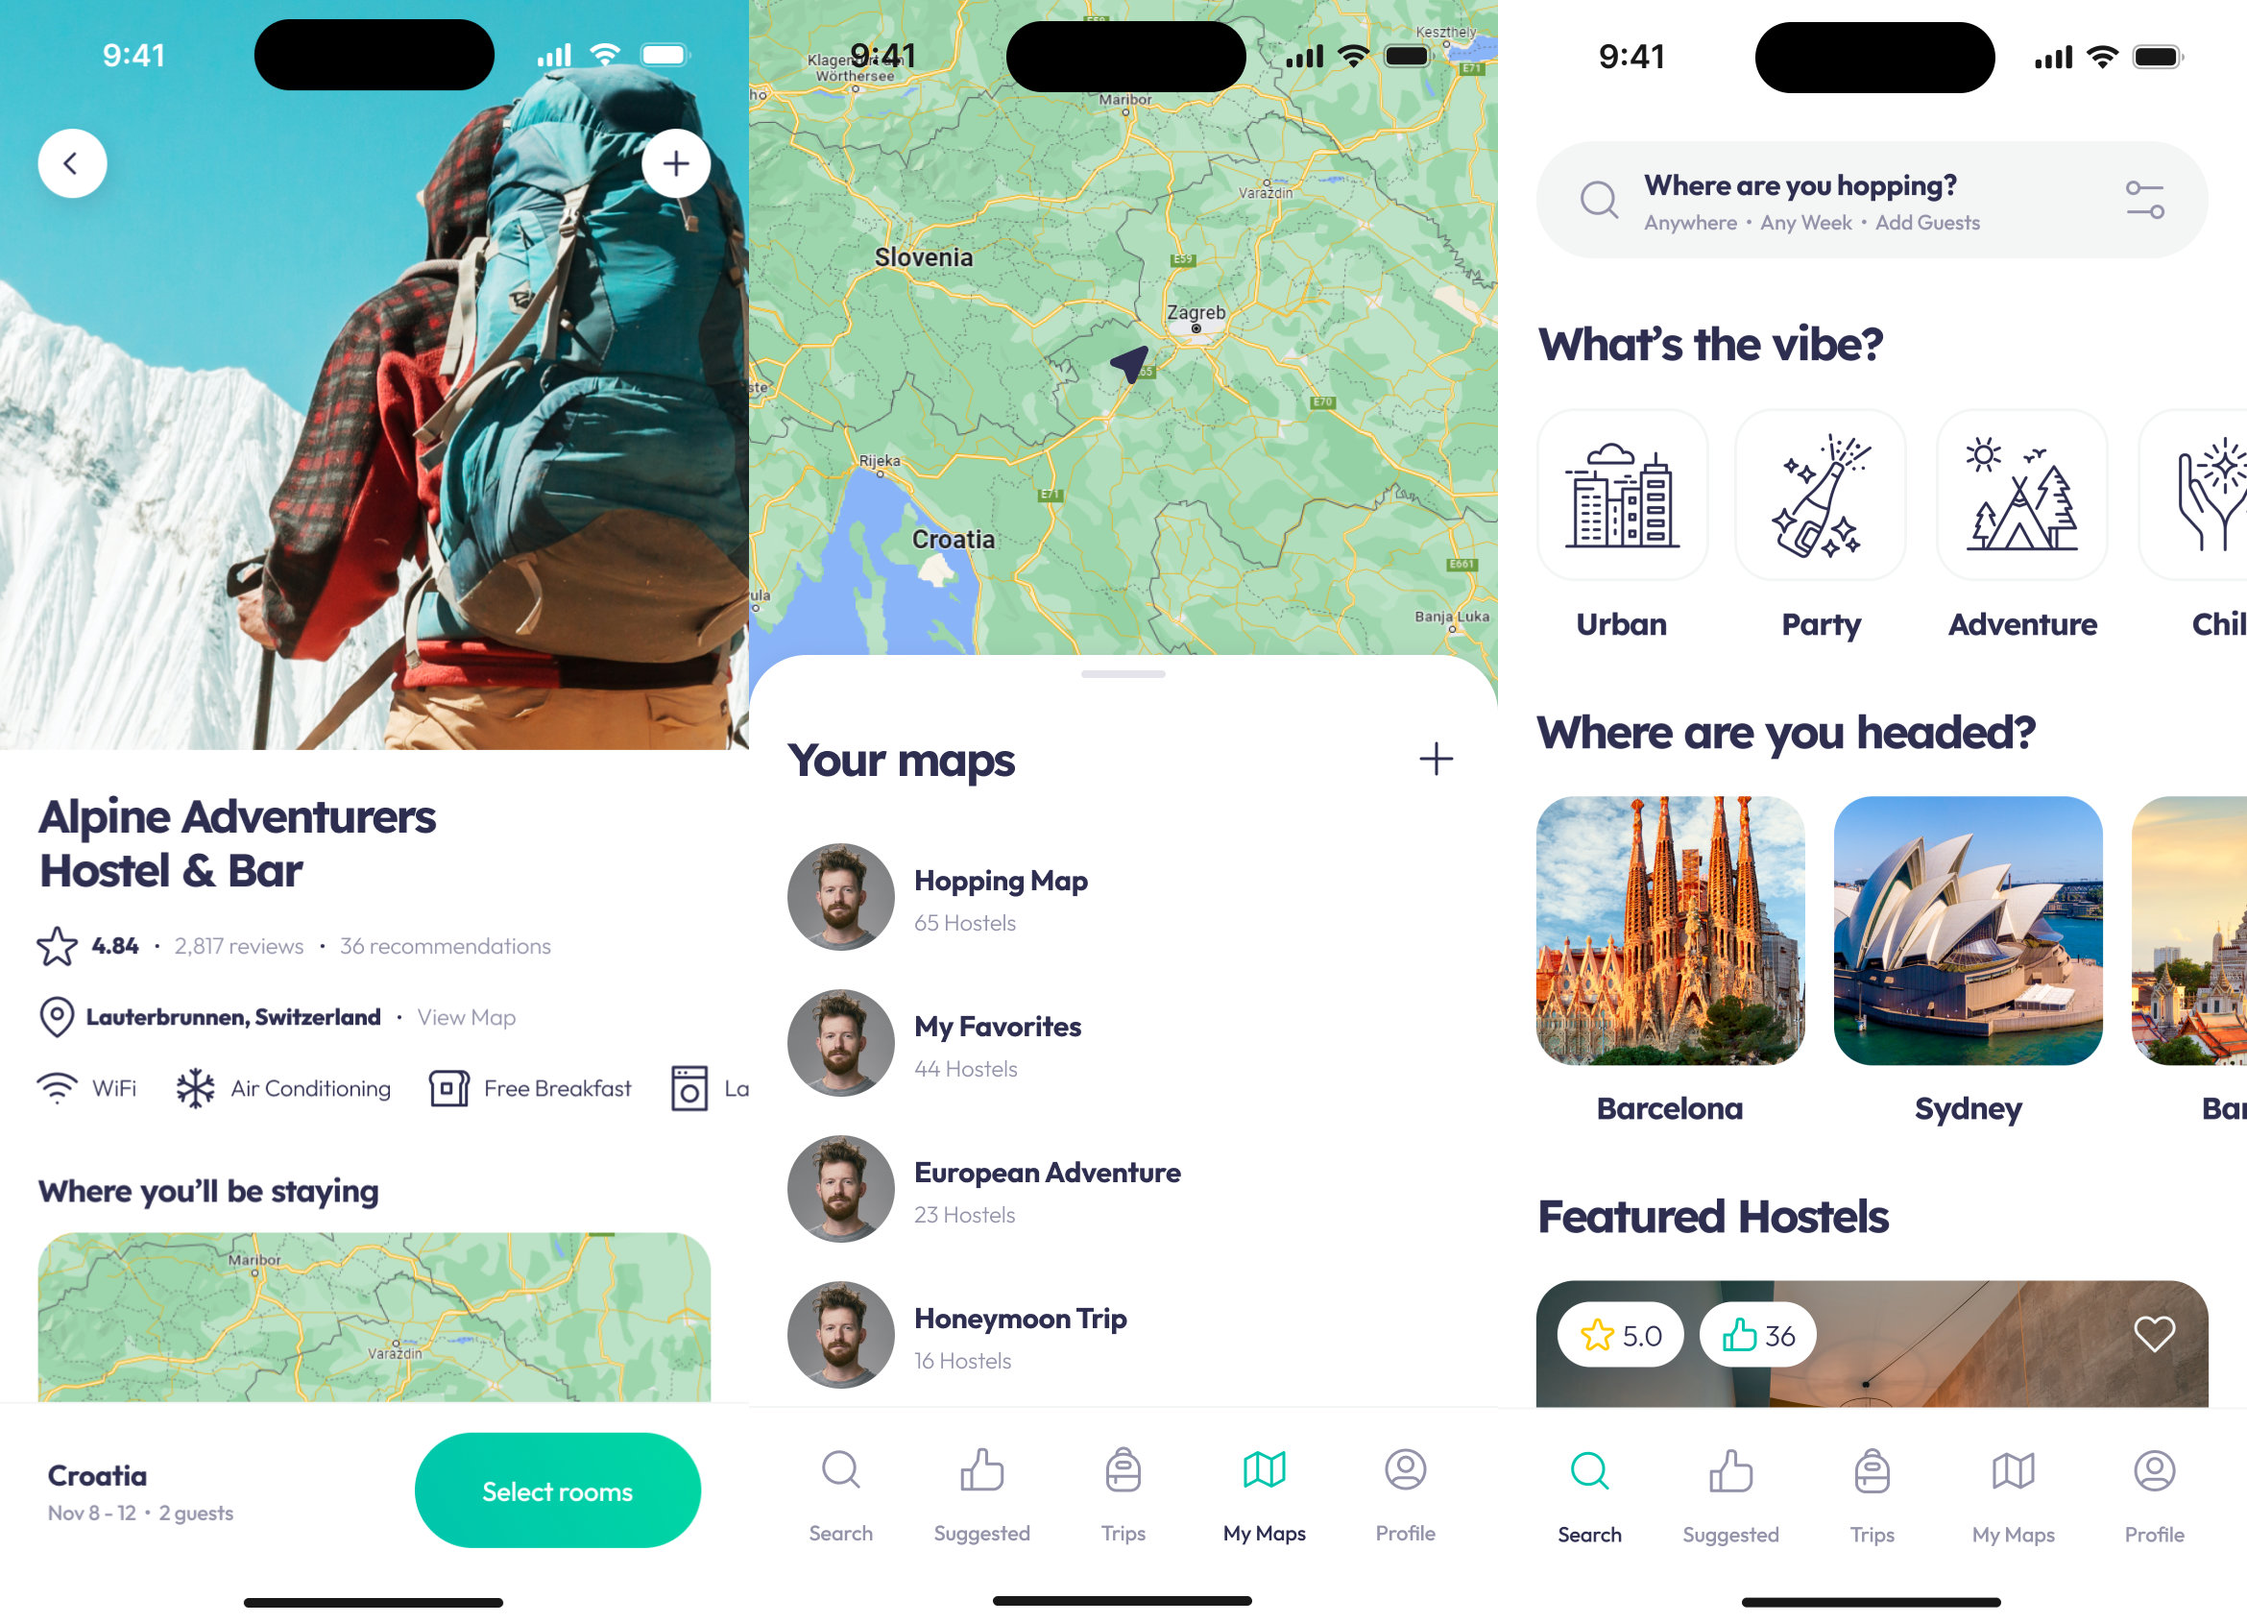
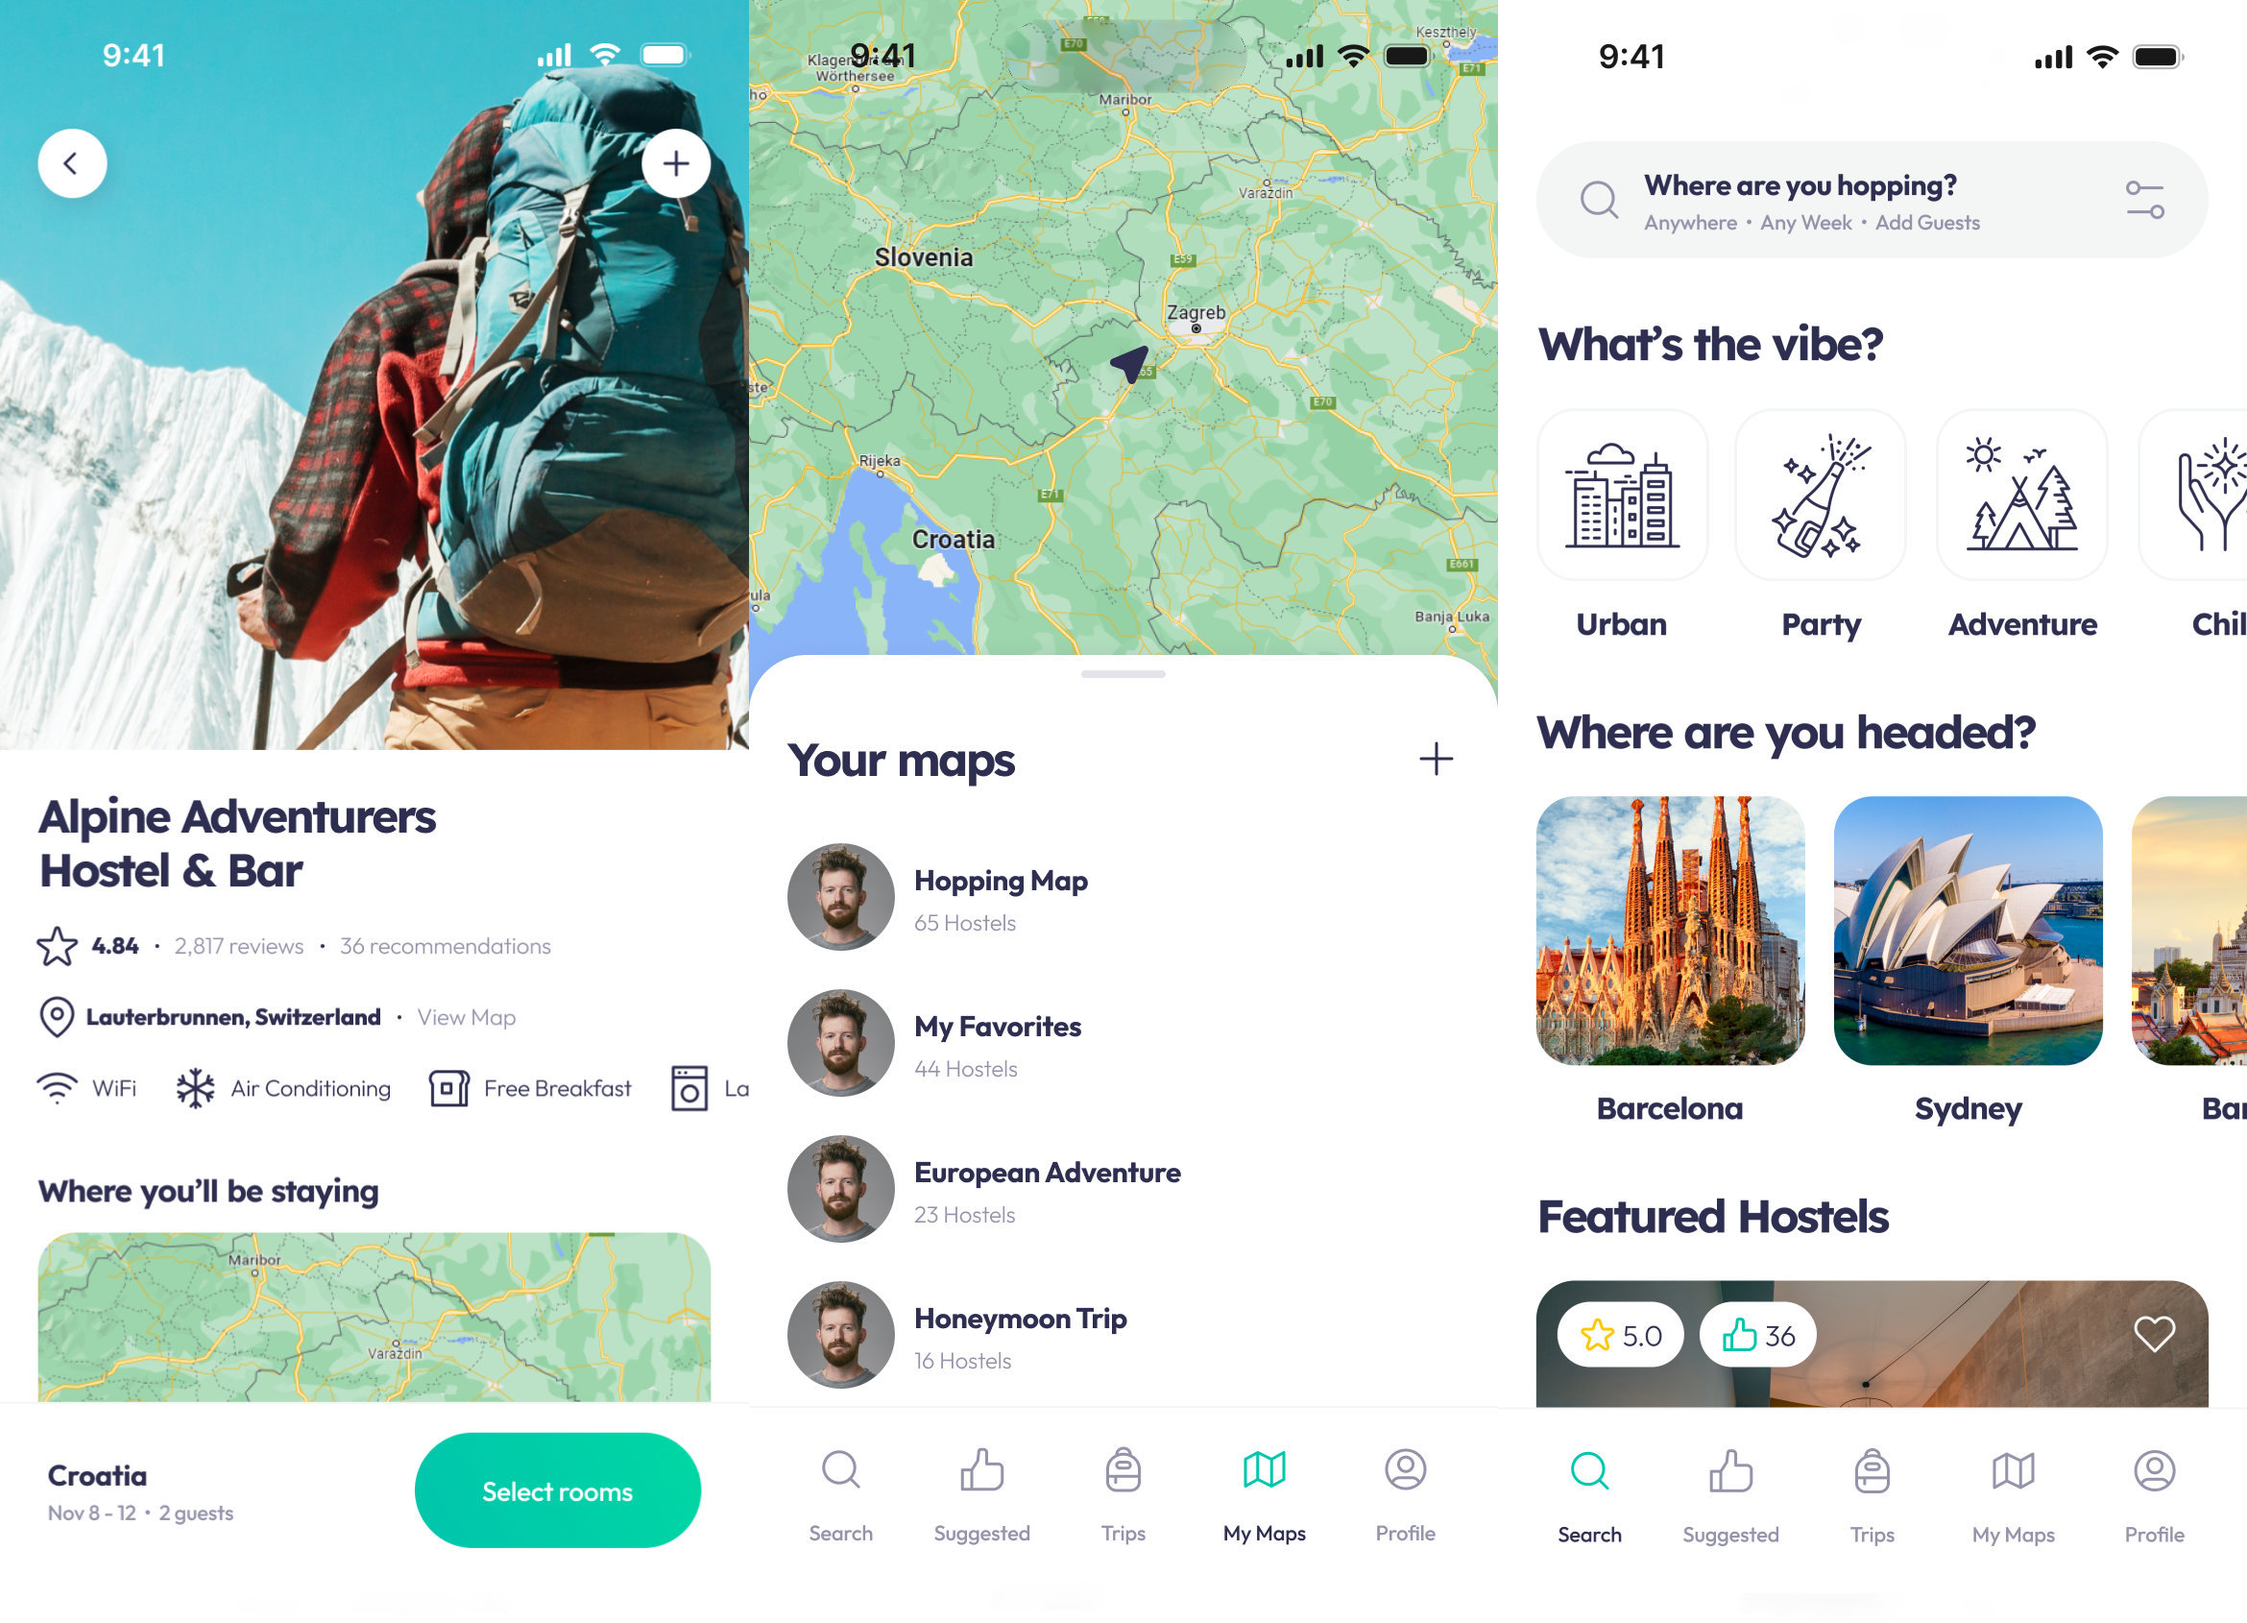
dynamic island and homebutton

diff --git a/src/style/style.scss b/src/style/style.scss
@@ -246,6 +246,27 @@ form.contact {
       background-repeat: no-repeat;
       background-position: 7.5% 19%;
       background-size: 450%;
+      position: relative;
+      .dynamic-island {
+        position: absolute;
+        width: 126px;
+        height: 37px;
+        left: 132px;
+        top: 10px;
+
+        background: black;
+        border-radius: 19px;
+      }
+      .home-button {
+        position: absolute;
+        width: 135px;
+        height: 5px;
+        left: 127px;
+        bottom: 8px;
+
+        background: black;
+        border-radius: 3px;
+      }
     }
     &.state1 {
       background-image: url("../images/phone1.png");

diff --git a/src/style/style.css b/src/style/style.css
@@ -11262,6 +11262,25 @@ form.contact select.form-select:invalid {
   background-repeat: no-repeat;
   background-position: 7.5% 19%;
   background-size: 450%;
+  position: relative;
+}
+.phone-holder .phone .screen .dynamic-island {
+  position: absolute;
+  width: 126px;
+  height: 37px;
+  left: 132px;
+  top: 10px;
+  background: black;
+  border-radius: 19px;
+}
+.phone-holder .phone .screen .home-button {
+  position: absolute;
+  width: 135px;
+  height: 5px;
+  left: 127px;
+  bottom: 8px;
+  background: black;
+  border-radius: 3px;
 }
 .phone-holder .phone.state1 {
   background-image: url("../images/phone1.png");

diff --git a/src/components/phone.jsx b/src/components/phone.jsx
@@ -48,7 +48,10 @@ const Phone = ({ scrollYProgress }) => {
         className={"phone state0"}
         style={{ ...phoneProps, ...gradientSpringProps }}
       >
-        <animated.div className="screen" style={screenProps}></animated.div>
+        <animated.div className="screen" style={screenProps}>
+          <div className="dynamic-island"></div>
+          <div className="home-button"></div>
+        </animated.div>
       </animated.div>
     </div>
   );
